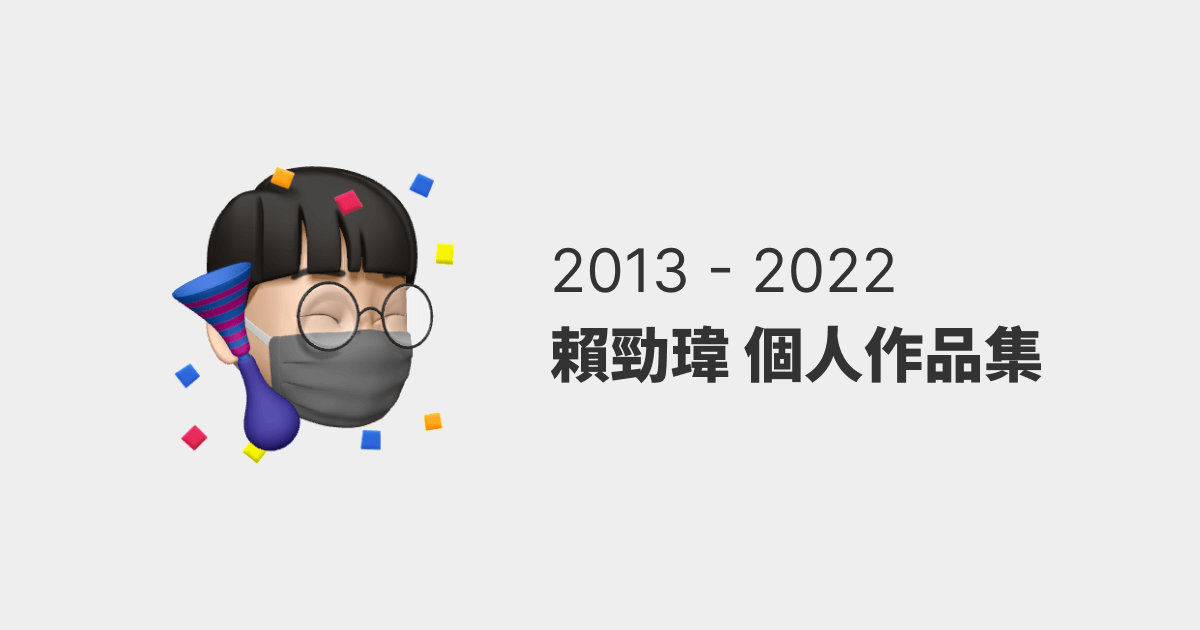
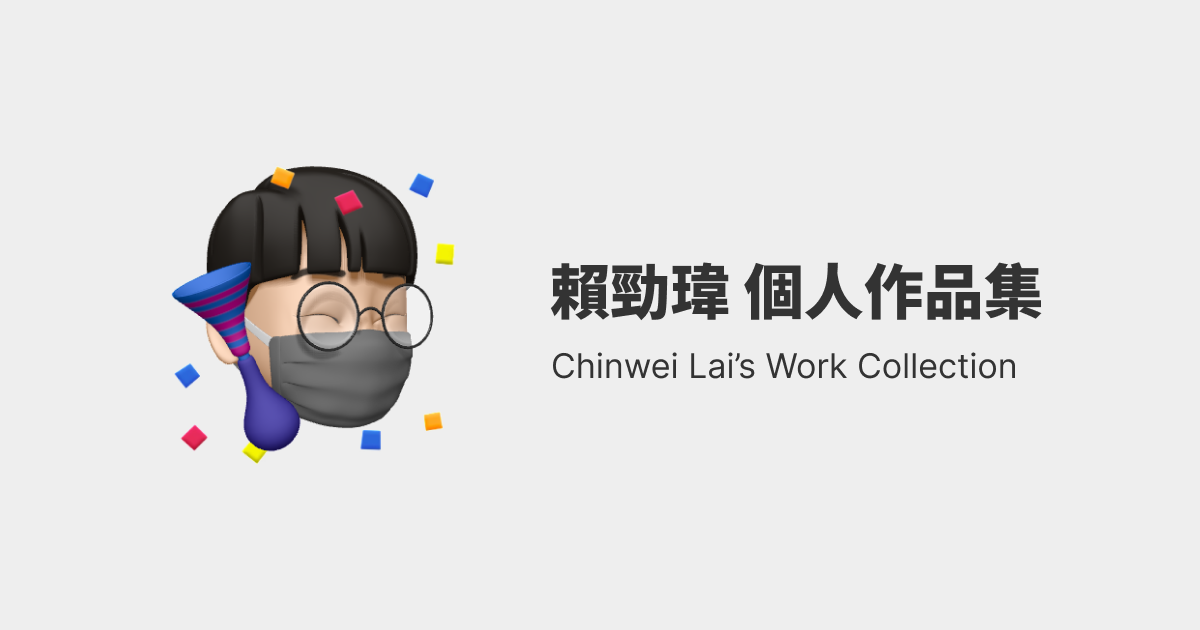
update

Changed region(s): [[0.4625, 0.3921, 0.8633, 0.6333]]

diff --git a/project01.html b/project01.html
@@ -3,13 +3,13 @@
   <head>
     <meta charset="utf-8">
     <meta name="viewport" content="width=device-width, initial-scale=1">
-    <title>臺北 白晝之夜｜賴勁瑋 - 個人作品集 Chinwei Lai's Personal Work Collection</title>
+    <title>臺北 白晝之夜｜賴勁瑋 - 個人作品集 Chinwei Lai's Work Collection</title>
     <meta name="description" content="全球的夜間城市藝術祭，2002年創始於法國巴黎，在 10月第一個週六跨夜舉行。白晝之夜根基於「都市創新」及「公共空間設計」兩大核心概念，為市民提供親近藝術及城市的場域。">
     <meta name="theme-color" content="#f0f0f0">
     <link rel="icon" type="png" href="img/favicon.png" />
 
     <!-- OG -->
-    <meta property="og:title" content="臺北 白晝之夜｜賴勁瑋 - 個人作品集 Chinwei Lai's Personal Work Collection"/>
+    <meta property="og:title" content="臺北 白晝之夜｜賴勁瑋 - 個人作品集 Chinwei Lai's Work Collection"/>
     <meta property="og:description" content="全球的夜間城市藝術祭，2002年創始於法國巴黎，在 10月第一個週六跨夜舉行。白晝之夜根基於「都市創新」及「公共空間設計」兩大核心概念，為市民提供親近藝術及城市的場域。" />
     <meta property="og:type" content="website">
     <meta property="og:url" content="https://chinweilai.com/project01.html">

diff --git a/project04.html b/project04.html
@@ -3,13 +3,13 @@
   <head>
     <meta charset="utf-8">
     <meta name="viewport" content="width=device-width, initial-scale=1">
-    <title>臺灣大學 國際華語研習所｜賴勁瑋 - 個人作品集 Chinwei Lai's Personal Work Collection</title>
+    <title>臺灣大學 國際華語研習所｜賴勁瑋 - 個人作品集 Chinwei Lai's Work Collection</title>
     <meta name="description" content="由臺灣大學 國際華語研習所以雙周為一期所出版的電子報，提供平台讓研習所的學生可以應用他們在課堂上學到的知識，並通過中英文寫作來表達自己。">
     <meta name="theme-color" content="#f0f0f0">
     <link rel="icon" type="png" href="img/favicon.png" />
 
     <!-- OG -->
-    <meta property="og:title" content="臺灣大學 國際華語研習所｜賴勁瑋 - 個人作品集 Chinwei Lai's Personal Work Collection"/>
+    <meta property="og:title" content="臺灣大學 國際華語研習所｜賴勁瑋 - 個人作品集 Chinwei Lai's Work Collection"/>
     <meta property="og:description" content="由臺灣大學 國際華語研習所以雙周為一期所出版的電子報，提供平台讓研習所的學生可以應用他們在課堂上學到的知識，並通過中英文寫作來表達自己。" />
     <meta property="og:type" content="website">
     <meta property="og:url" content="https://chinweilai.com/project04.html">

diff --git a/project02.html b/project02.html
@@ -3,13 +3,13 @@
   <head>
     <meta charset="utf-8">
     <meta name="viewport" content="width=device-width, initial-scale=1">
-    <title>輔仁輔人｜賴勁瑋 - 個人作品集 Chinwei Lai's Personal Work Collection</title>
+    <title>輔仁輔人｜賴勁瑋 - 個人作品集 Chinwei Lai's Work Collection</title>
     <meta name="description" content="輔仁輔人為輔仁大學設置的實時溝通交流平台，使用者可以透過行動裝置隨時隨地了解輔仁大學發佈的各項校園活動與校內資訊服務，有利於增加使用者與校園事務的觸及。">
     <meta name="theme-color" content="#f0f0f0">
     <link rel="icon" type="png" href="img/favicon.png" />
 
     <!-- OG -->
-    <meta property="og:title" content="輔仁輔人｜賴勁瑋 - 個人作品集 Chinwei Lai's Personal Work Collection"/>
+    <meta property="og:title" content="輔仁輔人｜賴勁瑋 - 個人作品集 Chinwei Lai's Work Collection"/>
     <meta property="og:description" content="輔仁輔人為輔仁大學設置的實時溝通交流平台，使用者可以透過行動裝置隨時隨地了解輔仁大學發佈的各項校園活動與校內資訊服務，有利於增加使用者與校園事務的觸及。" />
     <meta property="og:type" content="website">
     <meta property="og:url" content="https://chinweilai.com/project02.html">

diff --git a/project03.html b/project03.html
@@ -3,13 +3,13 @@
   <head>
     <meta charset="utf-8">
     <meta name="viewport" content="width=device-width, initial-scale=1">
-    <title>Minifeast 金工銀飾｜賴勁瑋 - 個人作品集 Chinwei Lai's Personal Work Collection</title>
+    <title>Minifeast 金工銀飾｜賴勁瑋 - 個人作品集 Chinwei Lai's Work Collection</title>
     <meta name="description" content="針對不同需求與成果為學員量身打造，透過雙手用心感受金工職人概念與精神，讓大家都能親手完成自己的第一件手工銀飾。">
     <meta name="theme-color" content="#f0f0f0">
     <link rel="icon" type="png" href="img/favicon.png" />
 
     <!-- OG -->
-    <meta property="og:title" content="Minifeast 金工銀飾｜賴勁瑋 - 個人作品集 Chinwei Lai's Personal Work Collection"/>
+    <meta property="og:title" content="Minifeast 金工銀飾｜賴勁瑋 - 個人作品集 Chinwei Lai's Work Collection"/>
     <meta property="og:description" content="針對不同需求與成果為學員量身打造，透過雙手用心感受金工職人概念與精神，讓大家都能親手完成自己的第一件手工銀飾。" />
     <meta property="og:type" content="website">
     <meta property="og:url" content="https://chinweilai.com/project03.html">

diff --git a/about.html b/about.html
@@ -3,13 +3,13 @@
   <head>
     <meta charset="utf-8">
     <meta name="viewport" content="width=device-width, initial-scale=1">
-    <title>關於｜賴勁瑋 - 個人作品集 Chinwei Lai's Personal Work Collection</title>
+    <title>關於｜賴勁瑋 - 個人作品集 Chinwei Lai's Work Collection</title>
     <meta name="description" content="關於賴勁瑋">
     <meta name="theme-color" content="#f0f0f0">
     <link rel="icon" type="png" href="img/favicon.png" />
 
     <!-- OG -->
-    <meta property="og:title" content="賴勁瑋 - 個人作品集 Chinwei Lai's Personal Work Collection"/>
+    <meta property="og:title" content="賴勁瑋 - 個人作品集 Chinwei Lai's Work Collection"/>
     <meta property="og:description" content="關於賴勁瑋" />
     <meta property="og:type" content="website">
     <meta property="og:url" content="https://chinweilai.com/about.html">

diff --git a/index.html b/index.html
@@ -3,13 +3,13 @@
   <head>
     <meta charset="utf-8">
     <meta name="viewport" content="width=device-width, initial-scale=1">
-    <title>賴勁瑋 - 個人作品集 Chinwei Lai's Personal Work Collection</title>
+    <title>賴勁瑋 - 個人作品集 Chinwei Lai's Work Collection</title>
     <meta name="description" content="使用者介面設計師">
     <meta name="theme-color" content="#f0f0f0">
     <link rel="icon" type="png" href="img/favicon.png" />
 
     <!-- OG -->
-    <meta property="og:title" content="賴勁瑋 - 個人作品集 Chinwei Lai's Personal Work Collection"/>
+    <meta property="og:title" content="賴勁瑋 - 個人作品集 Chinwei Lai's Work Collection"/>
     <meta property="og:description" content="使用者介面設計師" />
     <meta property="og:type" content="website">
     <meta property="og:url" content="https://chinweilai.com/">
